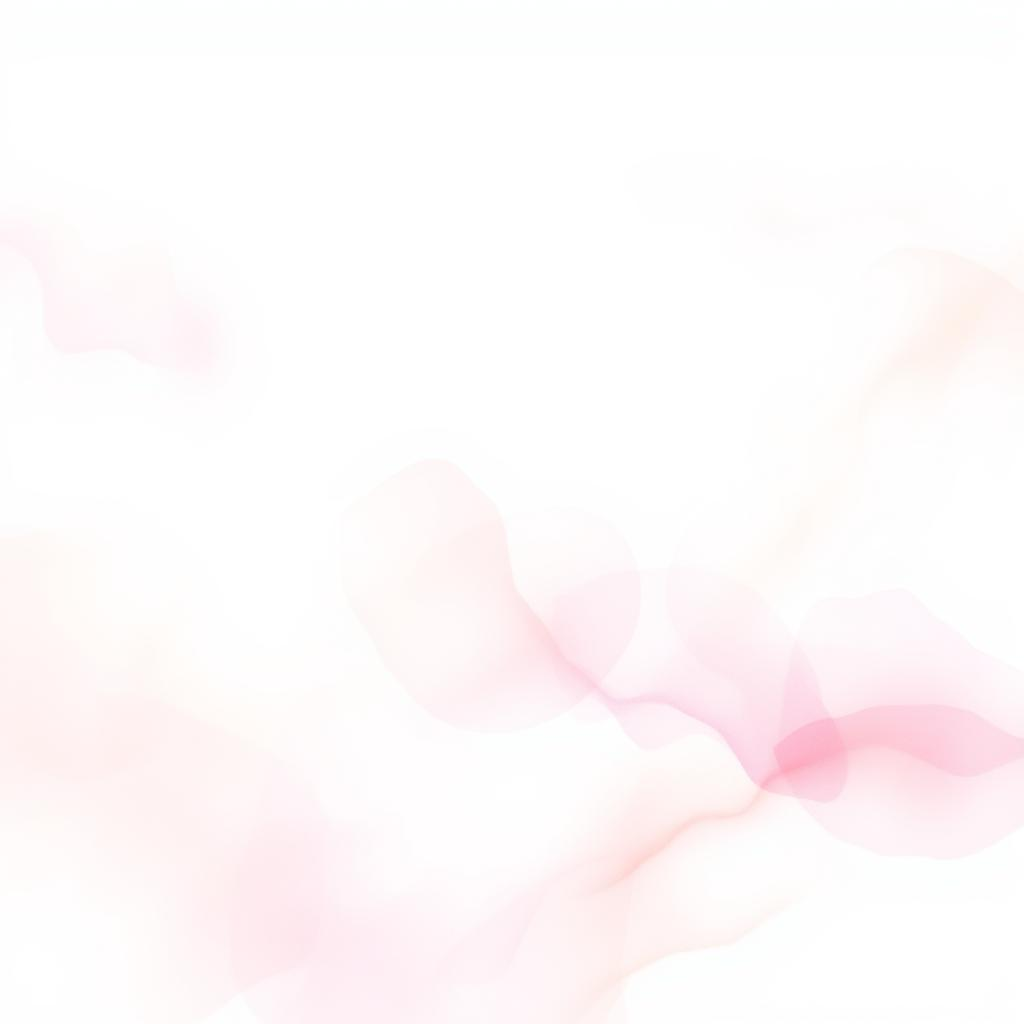
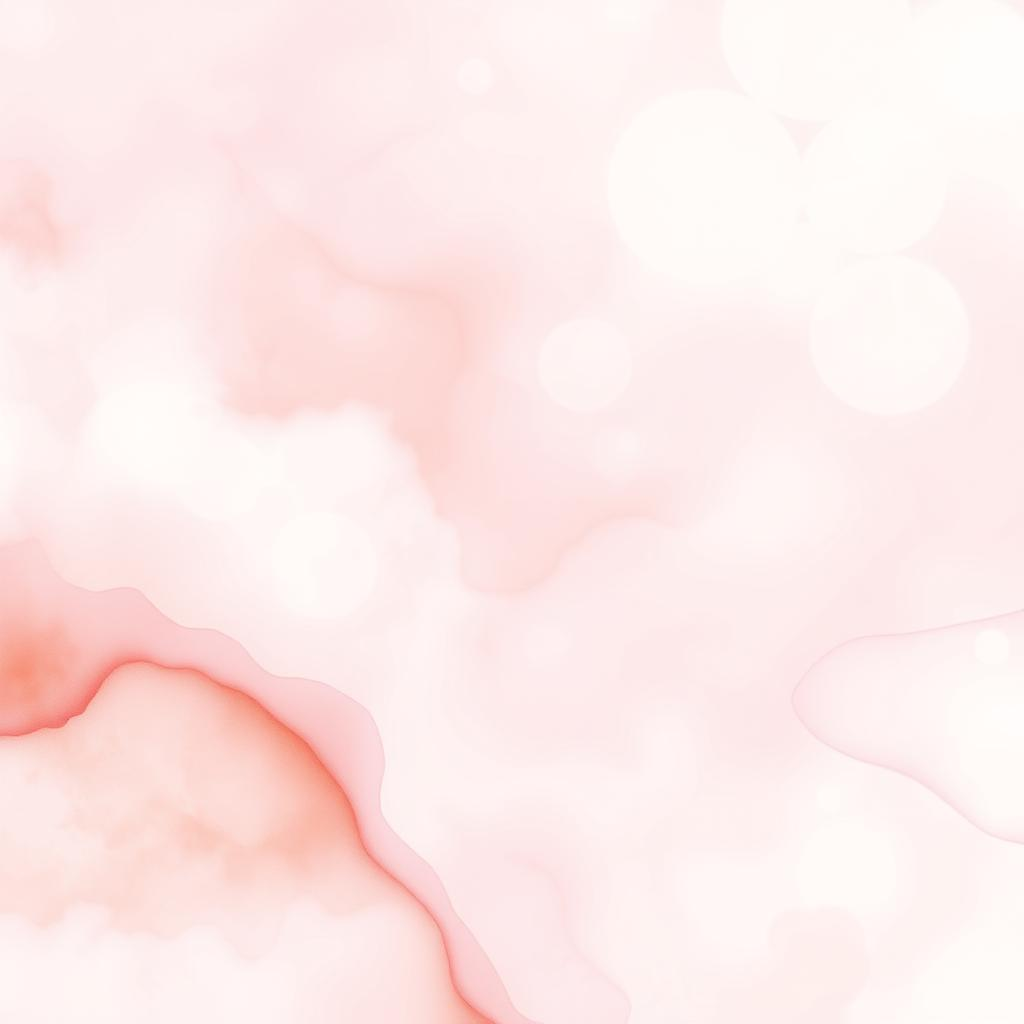
Remove Yobedoo box, use full-page parallax bg, remove purple background

diff --git a/public/index.html b/public/index.html
@@ -7,10 +7,9 @@
 <link rel="icon" type="image/png" sizes="32x32" href="/favicon.png">
 <style>
   :root {
-    --bg: #f9f5fc;
     --card: #ffffff;
-    --card-hover: #fdf9ff;
-    --border: #e6daf0;
+    --card-hover: #fffbfd;
+    --border: rgba(200,180,210,0.3);
     --text: #2d2440;
     --text-secondary: #8a7a9e;
     --accent: #b08acc;
@@ -26,7 +25,7 @@
 
   body {
     font-family: 'SF Pro Display', -apple-system, BlinkMacSystemFont, 'Segoe UI', Roboto, sans-serif;
-    background: var(--bg);
+    background: #ffffff;
     color: var(--text);
     line-height: 1.5;
     -webkit-font-smoothing: antialiased;
@@ -34,7 +33,23 @@
     overflow-x: hidden;
   }
 
-  /* PARALLAX HERO */
+  /* FULL-PAGE BACKGROUND IMAGE */
+  .page-bg {
+    position: fixed;
+    inset: 0;
+    width: 100%;
+    height: 100%;
+    object-fit: cover;
+    z-index: 0;
+    will-change: transform;
+  }
+
+  .page-wrapper {
+    position: relative;
+    z-index: 1;
+  }
+
+  /* HERO */
   .hero {
     position: relative;
     width: 100%;
@@ -44,25 +59,6 @@
     align-items: center;
     justify-content: center;
     overflow: hidden;
-    background: linear-gradient(135deg, #f5eefa 0%, #fce8ef 30%, #fef0e8 60%, #f5eefa 100%);
-  }
-
-  .hero-bg {
-    position: absolute;
-    inset: 0;
-    width: 100%;
-    height: 120%;
-    top: -10%;
-    object-fit: cover;
-    z-index: 0;
-    will-change: transform;
-  }
-
-  .hero-overlay {
-    position: absolute;
-    inset: 0;
-    background: linear-gradient(180deg, rgba(255,255,255,0.15) 0%, rgba(249,245,252,0.6) 100%);
-    z-index: 1;
   }
 
   .hero-content {
@@ -122,7 +118,9 @@
   }
 
   .app-card {
-    background: var(--card);
+    background: rgba(255,255,255,0.75);
+    backdrop-filter: blur(12px);
+    -webkit-backdrop-filter: blur(12px);
     border: 1px solid var(--border);
     border-radius: 16px;
     padding: 32px 24px;
@@ -130,7 +128,7 @@
     text-decoration: none;
     color: var(--text);
     transition: all 0.25s ease;
-    box-shadow: 0 2px 8px rgba(45,36,64,0.05);
+    box-shadow: 0 2px 12px rgba(45,36,64,0.06);
     display: flex;
     flex-direction: column;
     align-items: center;
@@ -141,7 +139,7 @@
     transform: translateY(-4px);
     box-shadow: 0 8px 28px rgba(45,36,64,0.1);
     border-color: var(--accent);
-    background: var(--card-hover);
+    background: rgba(255,255,255,0.88);
   }
 
   .app-icon {
@@ -192,7 +190,7 @@
     padding: 32px 20px;
     color: var(--text-secondary);
     font-size: 13px;
-    border-top: 1px solid var(--border);
+    border-top: 1px solid rgba(200,180,210,0.2);
   }
 
   footer a {
@@ -216,9 +214,11 @@
 </head>
 <body>
 
+<img class="page-bg" id="pageBg" src="/hero.png" alt="" onerror="this.style.display='none'">
+
+<div class="page-wrapper">
+
 <div class="hero">
-  <img class="hero-bg" id="heroBg" src="/hero.png" alt="" onerror="this.style.display='none'">
-  <div class="hero-overlay"></div>
   <div class="hero-content">
     <span class="hero-greeting" id="greeting"></span>
     <h1>Mitt Privata</h1>
@@ -245,14 +245,9 @@
       <span class="app-status status-live">Live</span>
     </a>
 
-    <a class="app-card" href="https://yobedoo-tavla.vercel.app" target="_blank">
-      <div class="app-icon" style="background: rgba(212,168,137,0.12); color: var(--peach);">&#127912;</div>
-      <h2>Yobedoo — Mingeltavla</h2>
-      <p>Kreativ mingeltavla för Yobedoo. Visuell planering i stort format.</p>
-      <span class="app-status status-live">Live</span>
-    </a>
-
   </div>
+
+</div>
 
 </div>
 
@@ -261,12 +256,12 @@
 </footer>
 
 <script>
-  // Parallax effect on hero image
-  const heroBg = document.getElementById('heroBg');
-  if (heroBg) {
+  // Parallax effect on background image
+  const pageBg = document.getElementById('pageBg');
+  if (pageBg) {
     window.addEventListener('scroll', () => {
       const scrollY = window.scrollY;
-      heroBg.style.transform = `translateY(${scrollY * 0.4}px)`;
+      pageBg.style.transform = `translateY(${scrollY * 0.3}px) scale(1.1)`;
     }, { passive: true });
   }
 
